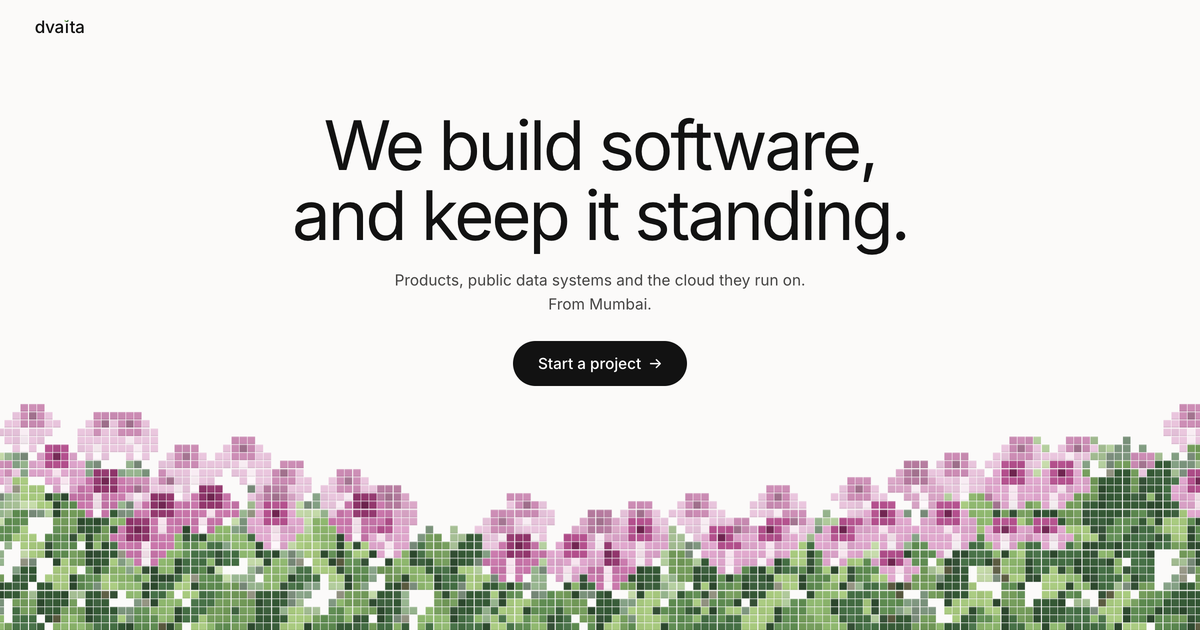
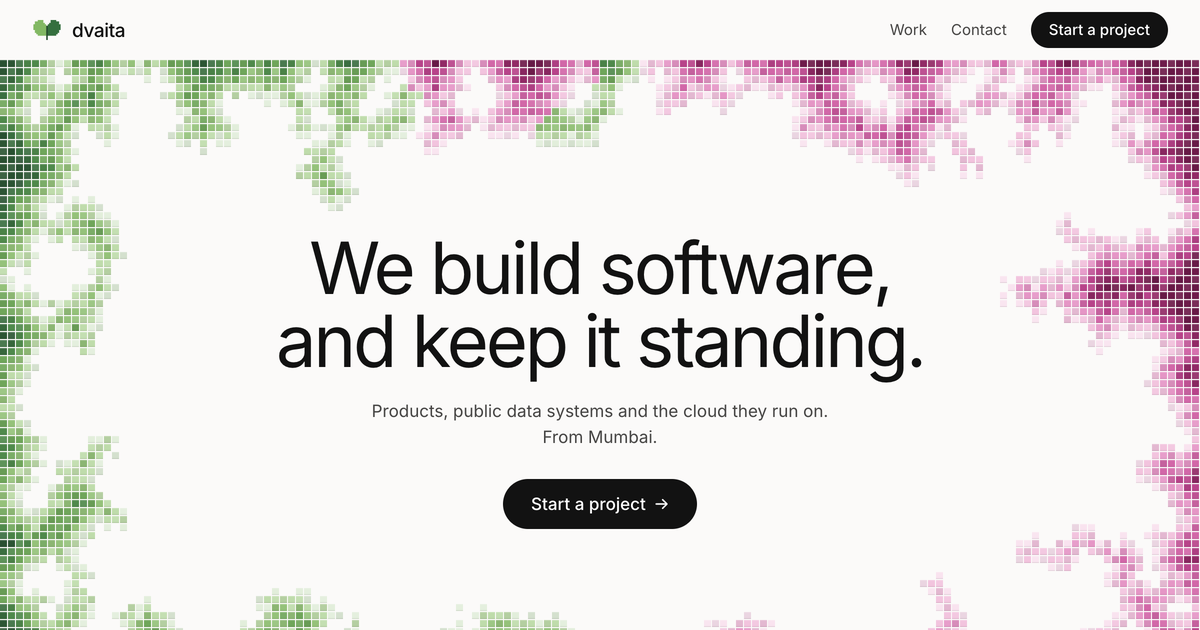
Field once, in the hero: restore the pink closing band; refresh og.png
Claude-Session: https://claude.ai/code/session_01KJBS2n6JBv3ZHdc2BCHESy

diff --git a/index.html b/index.html
@@ -178,12 +178,8 @@
         </ul>
       </section>
 
-    </main>
-
-    <footer class="foot">
-      <section class="foot-cta" aria-labelledby="close-title">
-        <canvas class="field" aria-hidden="true"></canvas>
-        <div class="foot-cta-copy">
+      <section class="close" aria-labelledby="close-title">
+        <div class="close-inner" data-reveal>
           <h2 class="close-title" id="close-title">Tell us what you're building.</h2>
           <p class="band-lede">A few lines is enough to start.</p>
           <div class="close-actions">
@@ -192,6 +188,9 @@
           </div>
         </div>
       </section>
+    </main>
+
+    <footer class="foot">
       <div class="foot-main">
         <div class="foot-brand">
           <a class="brand brand-lg" href="/"><svg class="mark mark-lg" viewBox="0 0 21 14" shape-rendering="crispEdges" aria-hidden="true"><path class="mark-l" fill="#82b863" d="M4 0h1v1h-1zM5 0h1v1h-1zM6 0h1v1h-1zM7 0h1v1h-1zM2 1h1v1h-1zM3 1h1v1h-1zM4 1h1v1h-1zM5 1h1v1h-1zM6 1h1v1h-1zM7 1h1v1h-1zM2 2h1v1h-1zM3 2h1v1h-1zM4 2h1v1h-1zM5 2h1v1h-1zM6 2h1v1h-1zM7 2h1v1h-1zM8 2h1v1h-1zM1 3h1v1h-1zM2 3h1v1h-1zM3 3h1v1h-1zM4 3h1v1h-1zM5 3h1v1h-1zM6 3h1v1h-1zM7 3h1v1h-1zM8 3h1v1h-1zM9 3h1v1h-1zM1 4h1v1h-1zM2 4h1v1h-1zM3 4h1v1h-1zM4 4h1v1h-1zM5 4h1v1h-1zM6 4h1v1h-1zM7 4h1v1h-1zM8 4h1v1h-1zM9 4h1v1h-1zM1 5h1v1h-1zM2 5h1v1h-1zM3 5h1v1h-1zM4 5h1v1h-1zM5 5h1v1h-1zM6 5h1v1h-1zM7 5h1v1h-1zM8 5h1v1h-1zM9 5h1v1h-1zM1 6h1v1h-1zM2 6h1v1h-1zM3 6h1v1h-1zM4 6h1v1h-1zM5 6h1v1h-1zM6 6h1v1h-1zM7 6h1v1h-1zM8 6h1v1h-1zM9 6h1v1h-1zM2 7h1v1h-1zM3 7h1v1h-1zM4 7h1v1h-1zM5 7h1v1h-1zM6 7h1v1h-1zM7 7h1v1h-1zM8 7h1v1h-1zM9 7h1v1h-1zM2 8h1v1h-1zM3 8h1v1h-1zM4 8h1v1h-1zM5 8h1v1h-1zM6 8h1v1h-1zM7 8h1v1h-1zM8 8h1v1h-1zM9 8h1v1h-1zM3 9h1v1h-1zM4 9h1v1h-1zM5 9h1v1h-1zM6 9h1v1h-1zM7 9h1v1h-1zM8 9h1v1h-1zM9 9h1v1h-1zM4 10h1v1h-1zM5 10h1v1h-1zM6 10h1v1h-1zM7 10h1v1h-1zM8 10h1v1h-1zM9 10h1v1h-1z"/><path class="mark-r" fill="#356f3e" d="M13 0h1v1h-1zM14 0h1v1h-1zM15 0h1v1h-1zM16 0h1v1h-1zM13 1h1v1h-1zM14 1h1v1h-1zM15 1h1v1h-1zM16 1h1v1h-1zM17 1h1v1h-1zM18 1h1v1h-1zM12 2h1v1h-1zM13 2h1v1h-1zM14 2h1v1h-1zM15 2h1v1h-1zM16 2h1v1h-1zM17 2h1v1h-1zM18 2h1v1h-1zM11 3h1v1h-1zM12 3h1v1h-1zM13 3h1v1h-1zM14 3h1v1h-1zM15 3h1v1h-1zM16 3h1v1h-1zM17 3h1v1h-1zM18 3h1v1h-1zM19 3h1v1h-1zM11 4h1v1h-1zM12 4h1v1h-1zM13 4h1v1h-1zM14 4h1v1h-1zM15 4h1v1h-1zM16 4h1v1h-1zM17 4h1v1h-1zM18 4h1v1h-1zM19 4h1v1h-1zM11 5h1v1h-1zM12 5h1v1h-1zM13 5h1v1h-1zM14 5h1v1h-1zM15 5h1v1h-1zM16 5h1v1h-1zM17 5h1v1h-1zM18 5h1v1h-1zM19 5h1v1h-1zM11 6h1v1h-1zM12 6h1v1h-1zM13 6h1v1h-1zM14 6h1v1h-1zM15 6h1v1h-1zM16 6h1v1h-1zM17 6h1v1h-1zM18 6h1v1h-1zM19 6h1v1h-1zM11 7h1v1h-1zM12 7h1v1h-1zM13 7h1v1h-1zM14 7h1v1h-1zM15 7h1v1h-1zM16 7h1v1h-1zM17 7h1v1h-1zM18 7h1v1h-1zM11 8h1v1h-1zM12 8h1v1h-1zM13 8h1v1h-1zM14 8h1v1h-1zM15 8h1v1h-1zM16 8h1v1h-1zM17 8h1v1h-1zM18 8h1v1h-1zM11 9h1v1h-1zM12 9h1v1h-1zM13 9h1v1h-1zM14 9h1v1h-1zM15 9h1v1h-1zM16 9h1v1h-1zM17 9h1v1h-1zM11 10h1v1h-1zM12 10h1v1h-1zM13 10h1v1h-1zM14 10h1v1h-1zM15 10h1v1h-1zM16 10h1v1h-1z"/><path fill="#244a2b" d="M10 4h1v1h-1zM10 5h1v1h-1zM10 6h1v1h-1zM10 7h1v1h-1zM10 8h1v1h-1zM10 9h1v1h-1zM10 10h1v1h-1zM10 11h1v1h-1zM10 12h1v1h-1zM10 13h1v1h-1z"/></svg><span class="brand-name">dvaita</span></a>

diff --git a/src/styles/base.css b/src/styles/base.css
@@ -205,38 +205,13 @@ a {
 
 /* --------------------------------------------------------------- the footer
 
-   On the home page it opens with the last word, in a clearing of the same
-   field the page opened with. Then the brand and the ways to reach us, and
-   at the very bottom the name, very large, in tiles: a green half and a
-   pink half. */
+   The brand and the ways to reach us, and at the very bottom the name, very
+   large, in tiles: a green half and a pink half. */
 
 .foot {
   position: relative;
   margin-top: 40px;
   overflow: hidden;
-}
-
-.foot-cta {
-  position: relative;
-  display: grid;
-  place-items: center;
-  min-height: clamp(440px, 64vh, 620px);
-}
-
-.foot-cta .field {
-  position: absolute;
-  inset: 0;
-  width: 100%;
-  height: 100%;
-}
-
-.foot-cta-copy {
-  position: relative;
-  display: flex;
-  flex-direction: column;
-  align-items: center;
-  padding: 40px 24px;
-  text-align: center;
 }
 
 .close-title {
@@ -246,12 +221,6 @@ a {
   line-height: 1.04;
   letter-spacing: -0.035em;
   text-wrap: balance;
-}
-
-.foot-cta .band-lede {
-  margin-top: 16px;
-  color: var(--color-ink-body);
-  font-size: 17px;
 }
 
 .close-actions {

diff --git a/src/styles/home.css b/src/styles/home.css
@@ -299,3 +299,41 @@ html[data-anim] .statement > :nth-child(3) {
     height: 280px;
   }
 }
+
+/* ---------------------------------------------------------------- close
+
+   Full bleed, in the palest bloom pink: the only band with a colour. */
+
+.close {
+  padding: 104px 32px 112px;
+  background-color: var(--tint-bloom);
+}
+
+.close-inner {
+  display: flex;
+  flex-direction: column;
+  align-items: center;
+  max-width: var(--page);
+  margin: 0 auto;
+  text-align: center;
+}
+
+.close .band-lede {
+  margin-top: 16px;
+}
+
+/* Straight after the pink band, the footer's own hairline would be a
+   second edge. */
+main:has(> .close:last-child) + .foot {
+  margin-top: 0;
+}
+
+main:has(> .close:last-child) + .foot .foot-main {
+  border-top: 0;
+}
+
+@media (max-width: 799px) {
+  .close {
+    padding: 80px 20px 88px;
+  }
+}

diff --git a/src/js/home.js b/src/js/home.js
@@ -4,8 +4,5 @@ import { watchReveals } from "./reveal.js";
 const hero = document.querySelector(".hero .field");
 if (hero) mountField(hero, { around: document.querySelector(".hero .statement") });
 
-const foot = document.querySelector(".foot-cta .field");
-if (foot) mountField(foot, { around: document.querySelector(".foot-cta-copy"), seed: 23, whenSeen: true });
-
 watchReveals();
 document.documentElement.dataset.anim = "";
